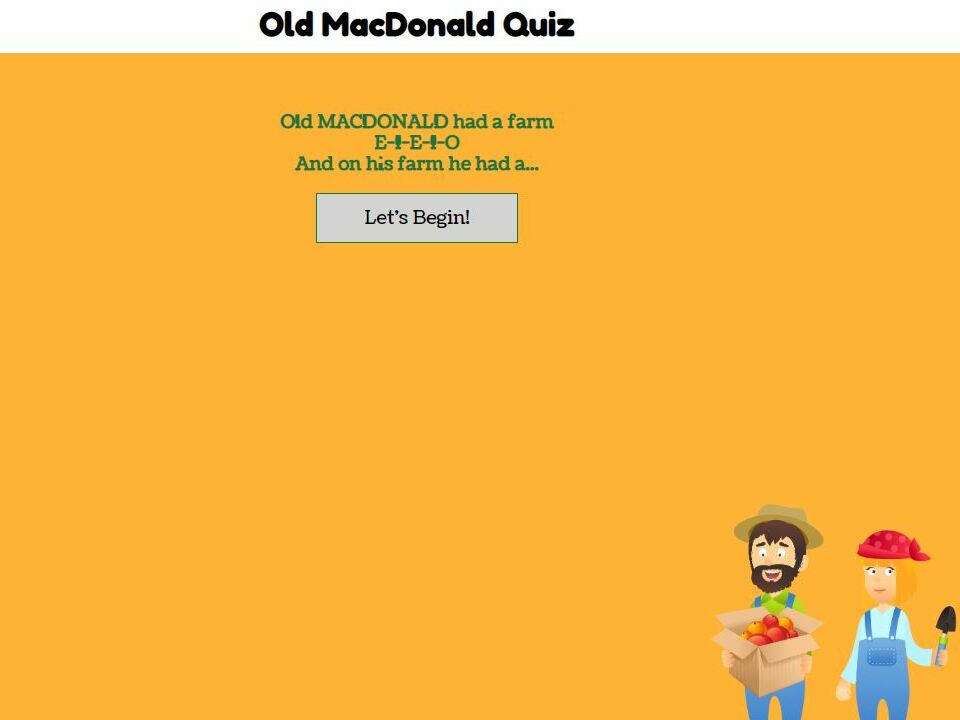
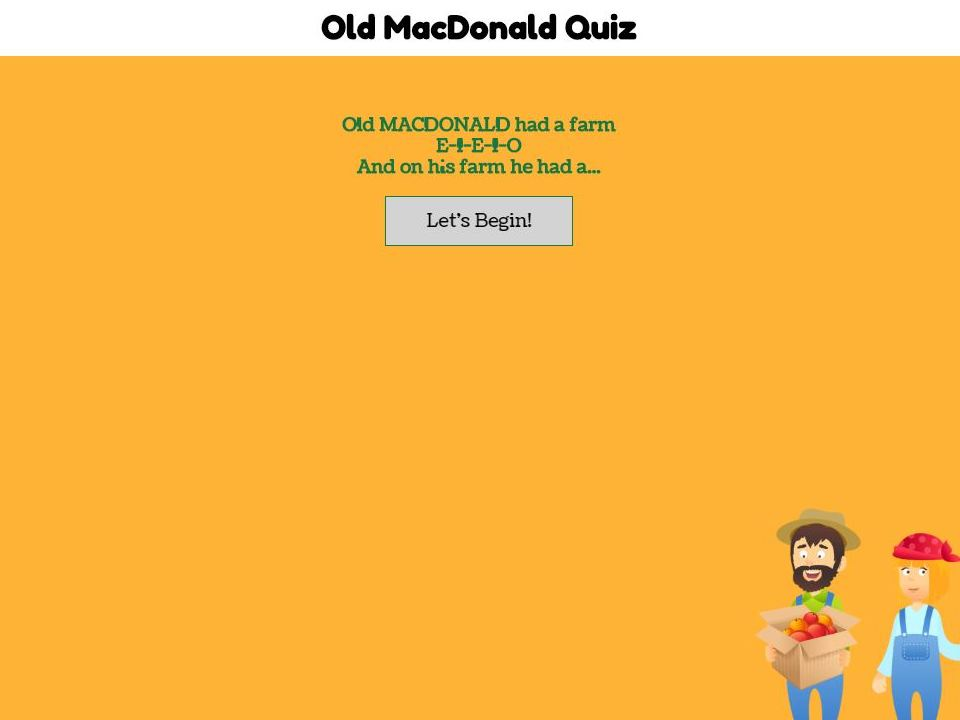
updated poster img

Changed region(s): [[0.75, 0.7028, 1.0, 1.0], [0.2812, 0.1528, 0.6562, 0.3667], [0.0, 0.0, 1.0, 0.0917]]

diff --git a/main.css b/main.css
@@ -47,7 +47,7 @@
   .hero-image {
     background-image: url('headline-img/yay.jpg');
     background-color: #cccccc;
-    height: 100vh;
+    height: 800px;
     background-position: center;
     background-repeat: no-repeat;
     background-size: cover;
@@ -73,7 +73,7 @@
     position: absolute;
     text-align: center;
     letter-spacing: 2px;
-    top: 47vh;
+    top: 50vh;
     font-size: 16px;
     line-height: 1.75;
     padding-right:4%;
@@ -91,7 +91,7 @@
   .aboutMe-img {
     background-image: url('headline-img/yay-peach.jpg');
     background-color: #cccccc;
-    height: 100vh;
+    height: 800px;
     background-position: center;
     background-repeat: no-repeat;
     background-size: cover;
@@ -99,9 +99,6 @@
   }
 
   #aboutMe {
-    min-height: 100vh;
-    background-color: #D4E0DC;
-    
     color: dimgray;
   }
   #aboutMe h2 {
@@ -277,7 +274,7 @@
   }
 
   /*************** ipad screen size ****************/
-  @media screen and (min-width : 760px) and (max-width : 1023px) {
+  @media screen and (min-width : 760px) and (max-width : 1020px) {
     div.nav a {
       padding: 8px 20px;
       font-size: 14px;
@@ -293,12 +290,12 @@
     .headline-text h1 {
       letter-spacing: 4px;
       font-size: 40px;
-      
+      top: 35vh;
     }
   
     .headline-text p {
       letter-spacing: 2.5px;
-      top: 45%;
+      top: 55vh;
       font-size: 18px;
       line-height: 2;
       padding-right:5%;
@@ -307,11 +304,18 @@
     .headline-text p span {
       font-weight: bold;
     }
-  
+
+    .hero-image {
+      height: 1020px;
+    }
   
     /********************** sections ***********************/
     
     /****************** aboutMe pagee ****************/
+    .aboutMe-img {
+      height: 1020px;
+    }
+    
     #aboutMe h2 {
       font-size: 32px;
       margin-top: 0px;
@@ -420,7 +424,7 @@
   
   }
 
-  @media screen and (min-width : 1024px) {
+  @media screen and (min-width : 1021px) {
     div.nav a {
       padding: 8px 18px;
       letter-spacing: 1.5px;
@@ -488,7 +492,7 @@
       margin-top: 0px;
       padding-top: 10vh;
       letter-spacing: 4px;
-      margin-bottom: 2%;
+      margin-bottom: 4%;
     }
   
     .flexbox-container {
